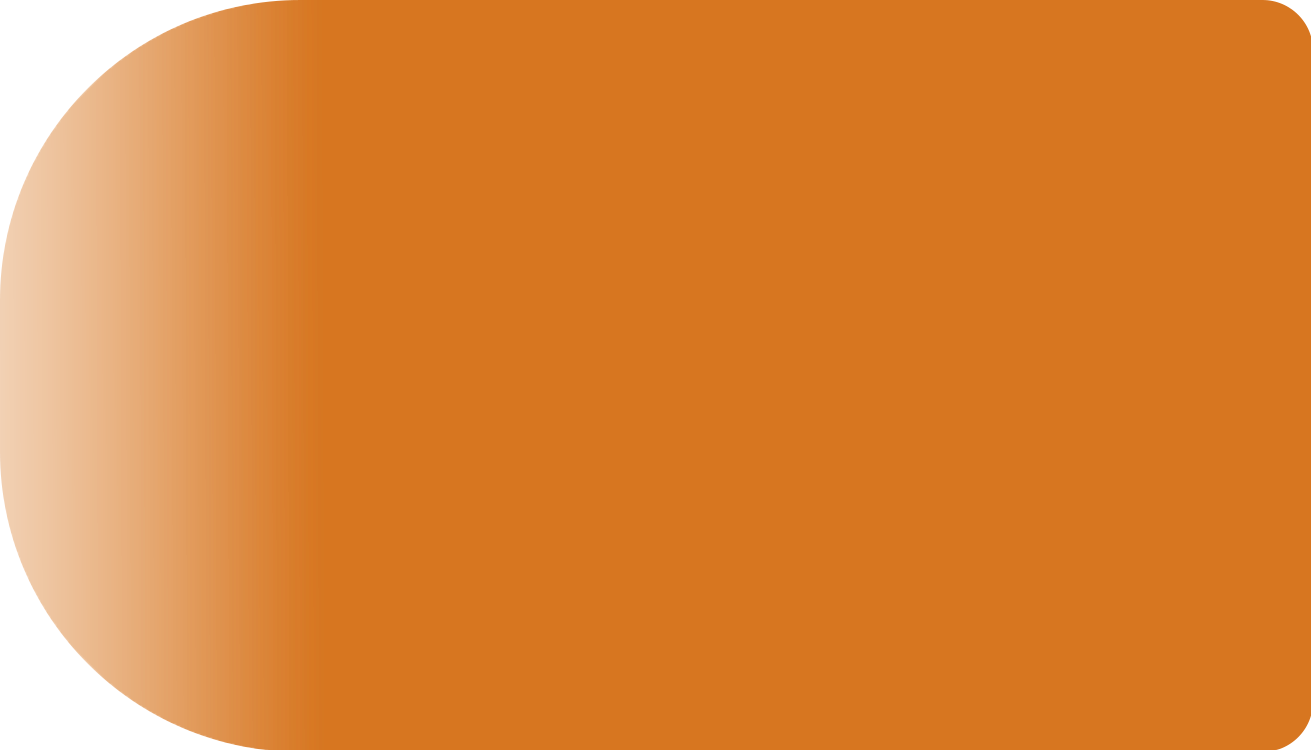
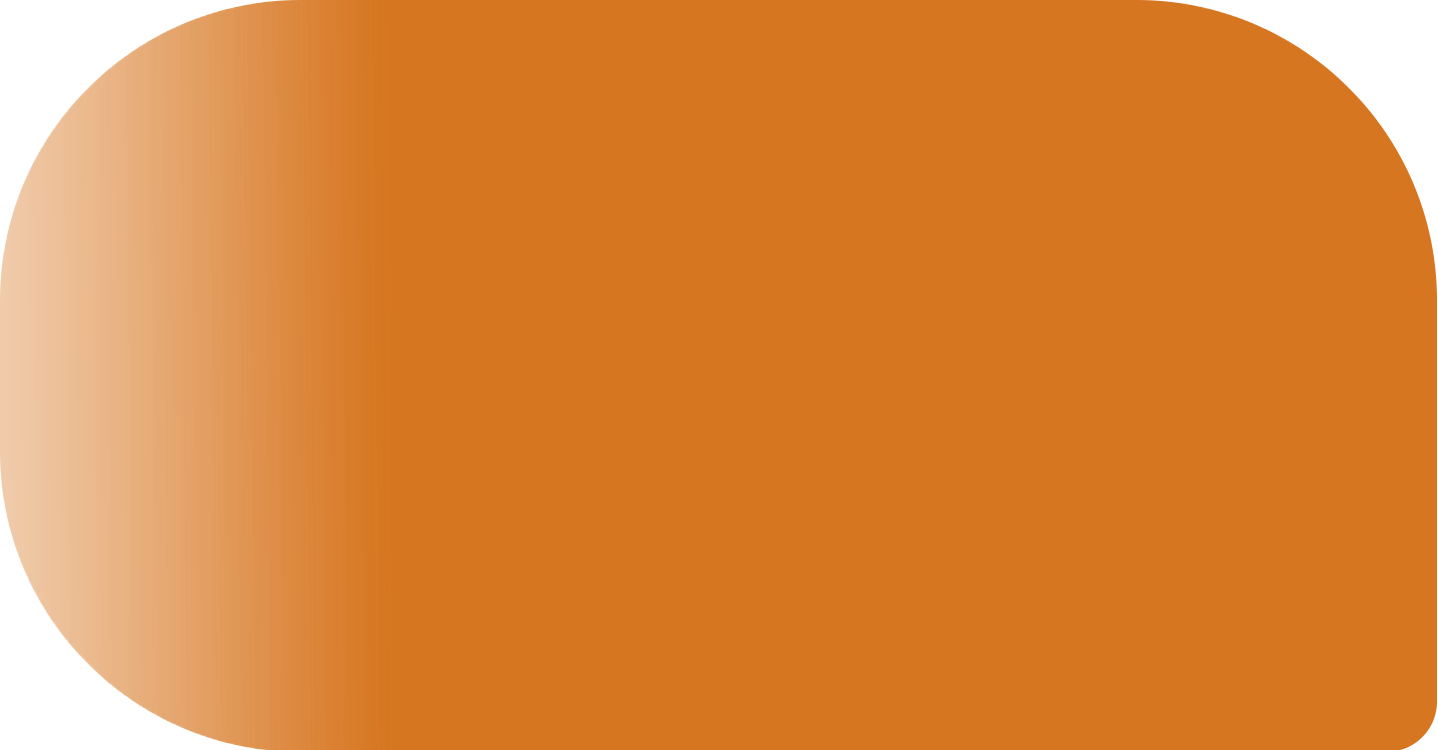
zone de stats

diff --git a/js/update_preview.js b/js/update_preview.js
@@ -19,8 +19,8 @@ const emojis = {
     "{h}": "images/hand",
     "{t}": "images/tap",
     "\\n": "<br/>",
-    "*": "<b>",
-    "_": "</b>"
+    "[": "<b>",
+    "]": "</b>"
 };
 
 let bool_bonus = false; // true si la case de bonus est active false sinon
@@ -143,11 +143,49 @@ function updateStats(stat, type) {
         document.getElementById("preview-leaf").innerHTML = stat;
         let els = document.getElementsByClassName("fond-stat")
         Array.prototype.forEach.call(els, function(el) {
-            el.innerHTML = `<img src="images/${el.id}_small.png" alt="${el.id} background" width="33" id="${el.id}-background"/>`;
+            el.innerHTML = `<img src="images/${el.id}_normal.png" alt="${el.id} background" height="31" id="${el.id}-background"/>`;
         });  
     } else {
         var stat_preview = document.getElementById(`preview-${type}`);
         stat_preview.innerHTML = stat;
+        const earth_stat = parseInt(document.getElementById("preview-earth").innerHTML);
+        const ocean_stat = parseInt(document.getElementById("preview-ocean").innerHTML);
+        const leaf_stat = parseInt(document.getElementById("preview-leaf").innerHTML);
+        let modified = {
+            "earth": false,
+            "leaf": false,
+            "ocean": false
+        }
+        //un plus grand
+        if(earth_stat > ocean_stat && earth_stat > leaf_stat) {
+            modified["earth"] = true;
+            document.getElementById("earth").innerHTML = '<img src="images/earth_large.png" alt="earth background" height="31" id="earth-background"/>';
+        } else if(ocean_stat > earth_stat && ocean_stat > leaf_stat) {
+            modified["ocean"] = true;
+            document.getElementById("ocean").innerHTML = '<img src="images/ocean_large.png" alt="ocean background" height="31" id="ocean-background"/>';
+        } else if(leaf_stat > ocean_stat && leaf_stat > earth_stat) {
+            modified["leaf"] = true;
+            document.getElementById("leaf").innerHTML = '<img src="images/leaf_large.png" alt="leaf background" height="31" id="leaf-background"/>';
+        }
+        //un plus petit
+        if(earth_stat < ocean_stat && earth_stat < leaf_stat) {
+            modified["earth"] = true;
+            document.getElementById("earth").innerHTML = '<img src="images/earth_small.png" alt="earth background" height="31" id="earth-background"/>';
+        } else if(ocean_stat < earth_stat && ocean_stat < leaf_stat) {
+            modified["ocean"] = true;
+            document.getElementById("ocean").innerHTML = '<img src="images/ocean_small.png" alt="ocean background" height="31" id="ocean-background"/>';
+        } else if(leaf_stat < ocean_stat && leaf_stat < earth_stat) {
+            modified["leaf"] = true;
+            document.getElementById("leaf").innerHTML = '<img src="images/leaf_small.png" alt="leaf background" height="31" id="leaf-background"/>';
+        }
+        //si ni l'un ni l'autre
+        if(!modified["earth"])
+            document.getElementById("earth").innerHTML = '<img src="images/earth_normal.png" alt="earth background" height="31" id="earth-background"/>';
+        if(!modified["leaf"])
+            document.getElementById("leaf").innerHTML = '<img src="images/leaf_normal.png" alt="leaf background" height="31" id="leaf-background"/>';
+        if(!modified["ocean"])
+            document.getElementById("ocean").innerHTML = '<img src="images/ocean_normal.png" alt="ocean background" height="31" id="ocean-background"/>';
+
     }
 }
 
@@ -182,7 +220,7 @@ function updateMana(type, value) {
             if(type === "HAND") {
                 document.getElementsByClassName(`card-${type.toLowerCase()}-cost`)[0].style.left = "29px";
             } else {
-                document.getElementsByClassName(`card-${type.toLowerCase()}-cost`)[0].style.left = "56px";                
+                document.getElementsByClassName(`card-${type.toLowerCase()}-cost`)[0].style.left = "57px";                
             }
             break;
     }

diff --git a/styles.css b/styles.css
@@ -145,7 +145,7 @@ main {
     z-index: 4;
 }
 .card-reserve-cost { 
-    top: 47px; left: 56px; 
+    top: 46px; left: 57px; 
     font-family: "Work Sans";
     font-size: 23px;
     font-weight: bold;

diff --git a/update.php b/update.php
@@ -4,31 +4,6 @@
         case "character":
             ?>
                 <br/><div class="radio-group">
-                <label for="earth">Earth</label>
-                
-                <input type="radio" name="earth" value="0" checked />
-                <label for="0">0</label>
-                <input type="radio" name="earth" value="1"/>
-                <label for="1">1</label>
-                <input type="radio" name="earth" value="2"/>
-                <label for="2">2</label>
-                <input type="radio" name="earth" value="3"/>
-                <label for="3">3</label>
-                <input type="radio" name="earth" value="4"/>
-                <label for="4">4</label>
-                <input type="radio" name="earth" value="5"/>
-                <label for="5">5</label>
-                <input type="radio" name="earth" value="6"/>
-                <label for="6">6</label>
-                <input type="radio" name="earth" value="7"/>
-                <label for="7">7</label>
-                <input type="radio" name="earth" value="8"/>
-                <label for="8">8</label>
-                <input type="radio" name="earth" value="9"/>
-                <label for="9">9</label>
-                <input type="radio" name="earth" value="10"/>
-                <label for="10">10</label>
-                </div><div class="radio-group">
                 <label for="leaf">Leaf</label>
                 
                 <input type="radio" name="leaf" value="0" checked />
@@ -53,7 +28,35 @@
                 <label for="9">9</label>
                 <input type="radio" name="leaf" value="10"/>
                 <label for="10">10</label>
-                </div><div class="radio-group">
+                </div>
+                <div class="radio-group">
+
+                <label for="earth">Earth</label>
+                <input type="radio" name="earth" value="0" checked />
+                <label for="0">0</label>
+                <input type="radio" name="earth" value="1"/>
+                <label for="1">1</label>
+                <input type="radio" name="earth" value="2"/>
+                <label for="2">2</label>
+                <input type="radio" name="earth" value="3"/>
+                <label for="3">3</label>
+                <input type="radio" name="earth" value="4"/>
+                <label for="4">4</label>
+                <input type="radio" name="earth" value="5"/>
+                <label for="5">5</label>
+                <input type="radio" name="earth" value="6"/>
+                <label for="6">6</label>
+                <input type="radio" name="earth" value="7"/>
+                <label for="7">7</label>
+                <input type="radio" name="earth" value="8"/>
+                <label for="8">8</label>
+                <input type="radio" name="earth" value="9"/>
+                <label for="9">9</label>
+                <input type="radio" name="earth" value="10"/>
+                <label for="10">10</label>
+                </div>
+                
+                <div class="radio-group">
                 <label for="ocean">Ocean</label>
                 
                 <input type="radio" name="ocean" value="0" checked />
@@ -83,32 +86,8 @@
             break;
         case "token":
             ?><div id="additional-token">
-            <br/><div class="radio-group">
-                <label for="earth">Earth</label>
-                
-                <input type="radio" name="earth" value="0" checked />
-                <label for="0">0</label>
-                <input type="radio" name="earth" value="1"/>
-                <label for="1">1</label>
-                <input type="radio" name="earth" value="2"/>
-                <label for="2">2</label>
-                <input type="radio" name="earth" value="3"/>
-                <label for="3">3</label>
-                <input type="radio" name="earth" value="4"/>
-                <label for="4">4</label>
-                <input type="radio" name="earth" value="5"/>
-                <label for="5">5</label>
-                <input type="radio" name="earth" value="6"/>
-                <label for="6">6</label>
-                <input type="radio" name="earth" value="7"/>
-                <label for="7">7</label>
-                <input type="radio" name="earth" value="8"/>
-                <label for="8">8</label>
-                <input type="radio" name="earth" value="9"/>
-                <label for="9">9</label>
-                <input type="radio" name="earth" value="10"/>
-                <label for="10">10</label>
-                </div><div class="radio-group">
+            <br/>
+            </div><br/><div class="radio-group">
                 <label for="leaf">Leaf</label>
                 
                 <input type="radio" name="leaf" value="0" checked />
@@ -133,7 +112,35 @@
                 <label for="9">9</label>
                 <input type="radio" name="leaf" value="10"/>
                 <label for="10">10</label>
-                </div><div class="radio-group">
+                </div>
+                <div class="radio-group">
+
+                <label for="earth">Earth</label>
+                <input type="radio" name="earth" value="0" checked />
+                <label for="0">0</label>
+                <input type="radio" name="earth" value="1"/>
+                <label for="1">1</label>
+                <input type="radio" name="earth" value="2"/>
+                <label for="2">2</label>
+                <input type="radio" name="earth" value="3"/>
+                <label for="3">3</label>
+                <input type="radio" name="earth" value="4"/>
+                <label for="4">4</label>
+                <input type="radio" name="earth" value="5"/>
+                <label for="5">5</label>
+                <input type="radio" name="earth" value="6"/>
+                <label for="6">6</label>
+                <input type="radio" name="earth" value="7"/>
+                <label for="7">7</label>
+                <input type="radio" name="earth" value="8"/>
+                <label for="8">8</label>
+                <input type="radio" name="earth" value="9"/>
+                <label for="9">9</label>
+                <input type="radio" name="earth" value="10"/>
+                <label for="10">10</label>
+                </div>
+                
+                <div class="radio-group">
                 <label for="ocean">Ocean</label>
                 
                 <input type="radio" name="ocean" value="0" checked />

diff --git a/token_type.php b/token_type.php
@@ -3,31 +3,6 @@
         if($_GET["type"] === "character") {
             ?>
                 <br/><div class="radio-group">
-                <label for="earth">Earth</label>
-                
-                <input type="radio" name="earth" value="0" checked />
-                <label for="0">0</label>
-                <input type="radio" name="earth" value="1"/>
-                <label for="1">1</label>
-                <input type="radio" name="earth" value="2"/>
-                <label for="2">2</label>
-                <input type="radio" name="earth" value="3"/>
-                <label for="3">3</label>
-                <input type="radio" name="earth" value="4"/>
-                <label for="4">4</label>
-                <input type="radio" name="earth" value="5"/>
-                <label for="5">5</label>
-                <input type="radio" name="earth" value="6"/>
-                <label for="6">6</label>
-                <input type="radio" name="earth" value="7"/>
-                <label for="7">7</label>
-                <input type="radio" name="earth" value="8"/>
-                <label for="8">8</label>
-                <input type="radio" name="earth" value="9"/>
-                <label for="9">9</label>
-                <input type="radio" name="earth" value="10"/>
-                <label for="10">10</label>
-                </div><div class="radio-group">
                 <label for="leaf">Leaf</label>
                 
                 <input type="radio" name="leaf" value="0" checked />
@@ -52,7 +27,35 @@
                 <label for="9">9</label>
                 <input type="radio" name="leaf" value="10"/>
                 <label for="10">10</label>
-                </div><div class="radio-group">
+                </div>
+                <div class="radio-group">
+
+                <label for="earth">Earth</label>
+                <input type="radio" name="earth" value="0" checked />
+                <label for="0">0</label>
+                <input type="radio" name="earth" value="1"/>
+                <label for="1">1</label>
+                <input type="radio" name="earth" value="2"/>
+                <label for="2">2</label>
+                <input type="radio" name="earth" value="3"/>
+                <label for="3">3</label>
+                <input type="radio" name="earth" value="4"/>
+                <label for="4">4</label>
+                <input type="radio" name="earth" value="5"/>
+                <label for="5">5</label>
+                <input type="radio" name="earth" value="6"/>
+                <label for="6">6</label>
+                <input type="radio" name="earth" value="7"/>
+                <label for="7">7</label>
+                <input type="radio" name="earth" value="8"/>
+                <label for="8">8</label>
+                <input type="radio" name="earth" value="9"/>
+                <label for="9">9</label>
+                <input type="radio" name="earth" value="10"/>
+                <label for="10">10</label>
+                </div>
+                
+                <div class="radio-group">
                 <label for="ocean">Ocean</label>
                 
                 <input type="radio" name="ocean" value="0" checked />

diff --git a/index.php b/index.php
@@ -118,15 +118,15 @@
         <div class="card-hand-cost"><span id="preview-hand-cost">1</span></div>
         <div class="card-reserve-cost"><span id="preview-reserve-cost">1</span></div>
         <div class="card-leaf">
-          <div class="fond-stat" id="leaf"><img src="images/leaf_small.png" alt="leaf background" width="33" id="leaf-background"/></div>
+          <div class="fond-stat" id="leaf"><img src="images/leaf_small.png" alt="leaf background" height="31" id="leaf-background"/></div>
           <span id="preview-leaf">0</span>
         </div>
         <div class="card-earth">
-          <div class="fond-stat" id="earth"><img src="images/earth_small.png" alt="earth background" width="33" id="earth-background"/></div>
+          <div class="fond-stat" id="earth"><img src="images/earth_small.png" alt="earth background" height="31" id="earth-background"/></div>
           <span id="preview-earth">0</span>
         </div>
         <div class="card-ocean">
-          <div class="fond-stat" id="ocean"><img src="images/ocean_small.png" alt="ocean background" width="33" id="ocean-background"/></div>
+          <div class="fond-stat" id="ocean"><img src="images/ocean_small.png" alt="ocean background" height="31" id="ocean-background"/></div>
           <span id="preview-ocean">0</span>
         </div>
         <div class="card-undermark"><span id="preview-undermark">altered-custom-card.com, &copy; 2025 Equinox</span></div>
